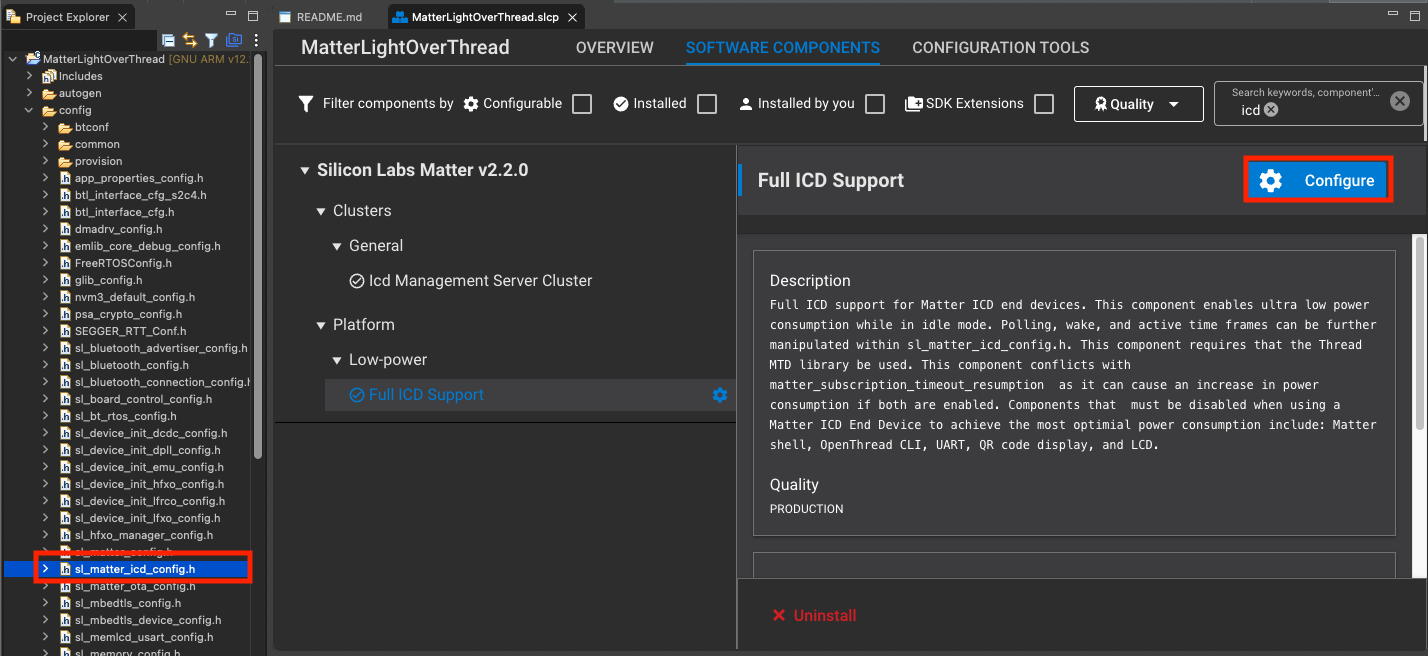
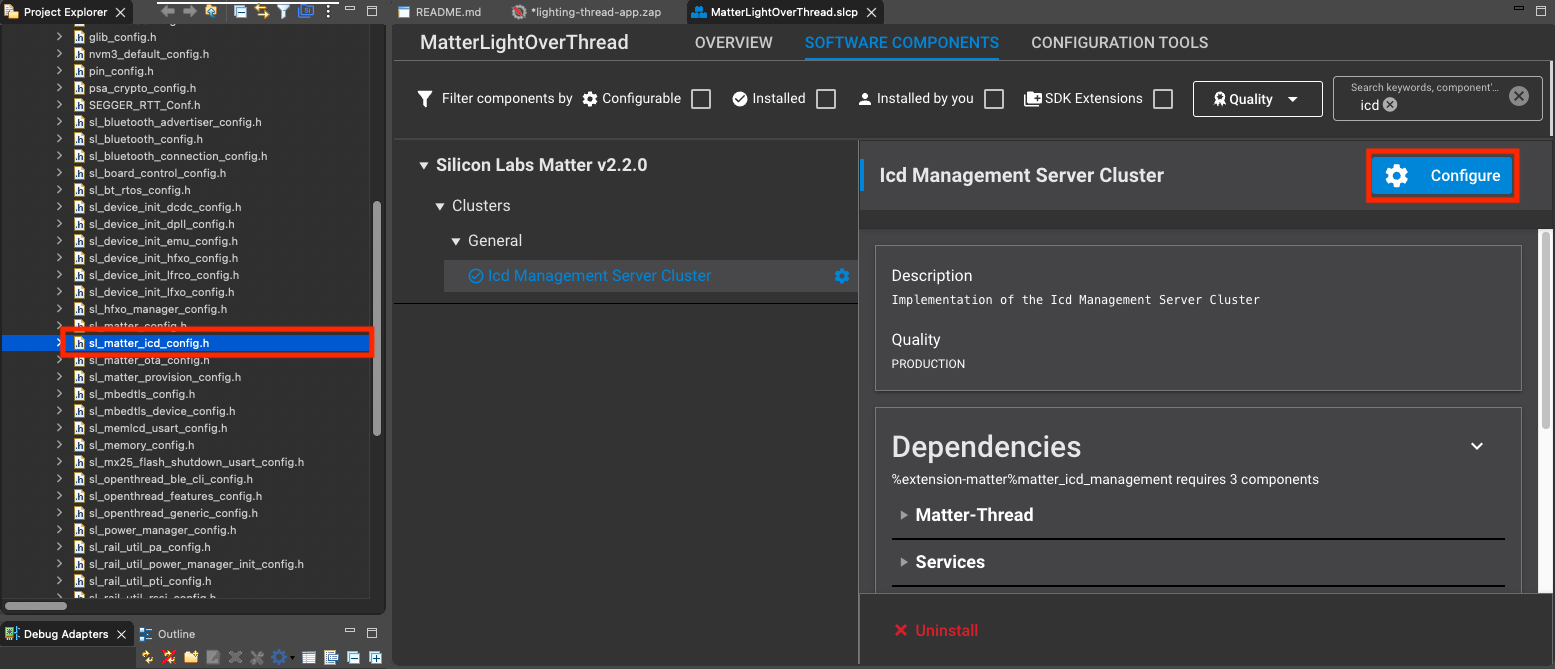
ICD cleanup documentation items. Updated Studio guide on how to enable

Changed region(s): [[0.0, 0.0, 1.0, 1.0], [0.9244, 0.0, 1.0, 0.0305]]

diff --git a/sld248-matter-overview-guides/matter-icd.md b/sld248-matter-overview-guides/matter-icd.md
@@ -4,16 +4,7 @@ Matter introduces the concept of Intermittently Connected Devices (ICD) in the S
 An Intermittently Connected Device is the Matter representation of a device that is not always reachable.
 This covers battery-powered devices that disable their underlying hardware when in a low-power mode or devices that can be disconnected from the network, like a phone app.
 
-This page focuses on features designed to improve the performance and reliability of battery-powered devices. Matter ICD functionality can be enabled with the `matter_icd` component.
-
-## Configuration
-
-To change default values corresponding to Matter ICD examples, modify them in either:
-
-1. `config/sl_matter_icd_config.h`
-2. ICD component configurator
-
-![ICD Configuration](images/icd-config.png)
+This page focuses on features designed to improve the performance and reliability of battery-powered devices. Matter ICD functionality can be enabled with the `matter_icd_management` component. The Matter light-switch and lock examples are ICD's by default.
 
 ## ICD Device Types
 
@@ -49,7 +40,7 @@ The ICDM Cluster exposes three configuration attributes that enable to configure
 | ActiveModeInterval    | uint32 | min 300    | minimum interval in milliseconds the server will stay in active mode |
 | ActiveModeThreshold   | uint32 | min 300    | minimum amount of time in milliseconds the server typically will stay active after network activity when in active mode |
 
-These configurations can be changed by modifying the values within `sl_matter_icd_config.h` or within the settings of the `matter_icd` component.
+These configurations can be changed by modifying the values within `sl_matter_icd_config.h` or within the settings of the `matter_icd_management` component.
 
 ```cpp
     #define SL_IDLE_MODE_INTERVAL = 600     // 10min Idle Mode Interval
@@ -186,6 +177,50 @@ The second step is registering the callback object to the Interaction Model Engi
 chip::app::InteractionModelEngine::GetInstance()->RegisterReadHandlerAppCallback(&mICDSubscriptionHandler);
 ```
 
+# Creating an ICD example via Simplicity Studio
+
+## Enabling/Building
+
+To begin creating an OpenThread ICD example, create a generic Matter over Thread solution example via the **New Project Wizard**. Lighting solution example will be used for demonstration purposes.
+
+**Lock and Light-Switch applications come out-of-box with ICD enabled. The low power component can be added by user.**
+
+1. Create project
+
+    ![Project Generation](images/icd-project-generation.png)
+
+2. Navigate to the "Configuration Tools" section and open the Zigbee Cluster Configurator.
+
+    ![ICD ZAP](images/icd-open-zap.png)
+
+3. Search for the ICD Management cluster and enable for "Server". You will receive a warning that the corresponding component was unable to be installed. This is due to component conflicts within Simplicity Studio.
+
+    ![ICD Cluster](images/icd-enable-icd-cluster.png)
+
+4. Navigate to the "Software Components" tab and install the ICD Management Server Cluster component.
+
+    ![ICD Component](images/icd-install-icd-component.png)
+
+5. Replace all subsequent conflicting components via the ensuing pop-up options (See below). This will install the necessary Thread Network Layer (MTD) component and ICD source code. This will also remove the conflicting Thread Network Layer (FTD) component.
+
+    ![ICD Component Conflicts](images/icd-resolve-conflicts.png)
+
+**Reccomended: Install the `matter_platform_low_power` and `matter_subscription_synchronization` components to achieve further energy savings. See details below.**
+
+ICD functionality should be installed and ready to build. Build the project as you would a normal example and flash the resulting binary to your specified end device. You should be able to commission the device the same way as non-ICD examples using the QR code URL (generated within the RTT logs at startup or BTN0 press).
+
+# Power Saving Components
+
+## Minimal Power Consumption
+
+The Lower Power Mode component is optional for low-power builds with the component `matter_platform_low_power`.
+
+The Lower Power Mode component will disable:
+
+- Matter Shell
+- OpenThread CLI
+- LCD and QR Code
+  
 ## Persistent Subscriptions
 
 Persistent subscriptions were added to Matter as a means to ensure that an ICD can re-establish its subscription and by extension its secure session to a subscriber in the event of a power cycle.
@@ -194,9 +229,9 @@ When the device reboots, it will try to re-establish its subscription with the s
 If the subscription is torn down during normal operations or if the re-establishment fails,
 the subscription will be deleted.
 
-Persistent subscriptions are enabled by default on all Silicon Labs sample applications.
+Persistent subscriptions are enabled by default on all Silicon Labs sample applications via the `matter_subscription_persistence` component.
 
-### Subscription Timeout Resumption
+## Subscription Timeout Resumption
 
 Matter also provides a retry mechanism for devices to try to re-establish a lost subscription with a client. This functionality is provided by the component `matter_subscription_timeout_resumption`. This feature should not be used on an ICD since it can significantly reduce battery life.
 
@@ -208,3 +243,12 @@ To avoid forcing an ICD to become active multiple times, the Matter SDK allows a
 The mechanism synchronizes the maximum interval of all subscriptions to only require the ICD to become active once. This functionality is provided by component `matter_subscription_synchronization`.
 
 This feature is enabled by default on the door-lock sample app and the light-switch sample application.
+
+# Configuration
+
+To change default values corresponding to Matter ICD examples, modify them in either:
+
+1. `config/sl_matter_icd_config.h`
+2. ICD component configurator
+
+![ICD Configuration](images/icd-config.png)

diff --git a/sld248-matter-overview-guides/ot-icd-end-device.md b/sld248-matter-overview-guides/ot-icd-end-device.md
@@ -50,30 +50,6 @@ Matter exposes some defines to configure the polling intervals of the OpenThread
 | SlowPollInterval | CHIP_DEVICE_CONFIG_ICD_SLOW_POLL_INTERVAL (`SL_OT_IDLE_INTERVAL`) | Interval, in milliseconds, at which the thread radio will poll its network in idle mode. | 15000 ms | <= IdleModeInterval |
 | FastPollInterval | CHIP_DEVICE_CONFIG_ICD_FAST_POLL_INTERVAL (`SL_OT_ACTIVE_INTERVAL`) | Interval, in milliseconds, at which the thread radio will poll its network in active mode. | 200 ms | < ActiveModeInterval |
 
-For Matter configuration, see the [**Matter ICD**](/matter/<docspace-docleaf-version>/matter-overview-guides/matter-icd#Configuration) documentation.
+For Matter configuration, see the [**Matter ICD**](/matter/<docspace-docleaf-version>/matter-overview-guides/matter-icd#configuration) documentation.
 
-## Building
-
-### Enabling/Building
-
-1. To begin creating an OpenThread ICD example, create a generic Matter over Thread example via the **New Project Wizard**. Lighting example will be used for demonstration purposes. Lock and Light-Switch applications come out-of-box with ICD enabled.
-
-![Project Generation](images/icd-project-generation.png)
-
-1. Once the project is generated, navigate to the software components section and install the Matter ICD component. Replace all subsequent conflicting components via the ensuing pop-up options (See below). This will install the necessary Thread Network Layer (MTD) component and ICD source code. This will also remove the conflicting Thread Network Layer (FTD) component.
-
-![ICD End Device Component](images/icd-component.png)
-
-![ICD Component Replacement](images/icd-replace.png)
-
-3. ICD functionality should be installed and ready to build. Build the project as you would a normal example and flash the resulting binary to your specified end device. You should be able to commission the device the same way as non-ICD examples using the QR code URL (generated within the RTT logs at startup/BTN0 press).
-
-## Minimal Power Consumption
-
-The Lower Power Mode component is optional for low-power builds with the component `matter_platform_low_power`.
-
-The Lower Power Mode component will disable:
-
-- Matter Shell
-- OpenThread CLI
-- LCD and QR Code
+For how to build an ICD example application within Simplicity Studio, see [**Matter ICD Example Guide**](/matter/<docspace-docleaf-version>/matter-overview-guides/matter-icd#enabling-building).

diff --git a/sld292-matter-wifi-enabling-features/wifi-sleepy-end-device.md b/sld292-matter-wifi-enabling-features/wifi-sleepy-end-device.md
@@ -50,12 +50,12 @@ The Wi-Fi station in Power Save mode wakes up to receive the DTIM beacon and che
 
 ## Building with ICD Functionality
 
-To enable ICD functionality for Wi-Fi, the `matter_icd` component needs to be installed within the Software Components tab from Simplicity Studio.
+To enable ICD functionality for Wi-Fi, the `matter_icd_management` component needs to be installed within the Software Components tab from Simplicity Studio.
 
-- For rs9116 and WF200: `matter_icd` component is installed by default for lock-app. For thermostat and window need to install mentioned component to enable sleepy.
-- For 917NCP: `matter_icd` component is installed by default for lock-app. For thermostat and window need to install mentioned component to enable sleepy.
+- For rs9116 and WF200: `matter_icd_management` component is installed by default for lock-app. For thermostat and window need to install mentioned component to enable sleepy.
+- For 917NCP: `matter_icd_management` component is installed by default for lock-app. For thermostat and window need to install mentioned component to enable sleepy.
 - For SiWx917 SOC:
-  - Search `matter_icd` from **search bar** and click **Install**.
+  - Search `matter_icd_management` from **search bar** and click **Install**.
 
     ![Search matter icd](./images/search-matter-icd.png)
 

diff --git a/sld388-matter-new-features/index.md b/sld388-matter-new-features/index.md
@@ -53,5 +53,5 @@ The default configurations can be found in their respective `sl_matter_icd_confi
 
 - CHANGES:
   - Optimized the subscription reports by synchronizing all client’s subscriptions with the ICD idle mode interval. This ensures the minimal amount of wake ups possible due to subscription reports. This component is introduced as `matter_subscription_synchronization`.
-  - The previous `matter_sed` components has been replaced by `matter_icd`. This goes in line with previous sleepy end device behavior being deprecated and replaced by the ICD behavior.
+  - The previous `matter_sed` components has been replaced by `matter_icd_management`. This goes in line with previous sleepy end device behavior being deprecated and replaced by the ICD behavior.
   - Silicon Labs' Light Switch and Door Lock apps support the ICD implementation and have the ICD cluster enabled.
